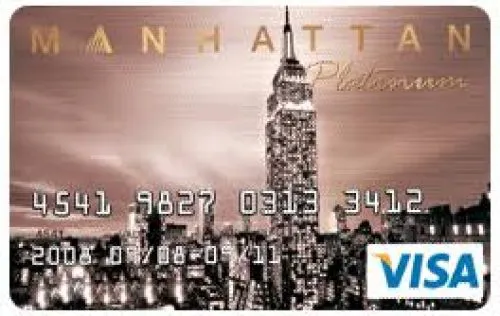
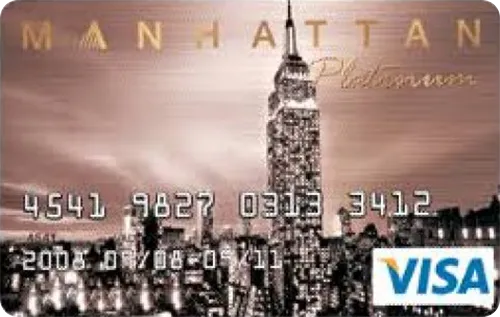
Add SC Manhattan Card ad

diff --git a/_includes/advertisement-post-sc-manhattan.html b/_includes/advertisement-post-sc-manhattan.html
@@ -1,0 +1,61 @@
+<div class="border pl-4 pr-4 pt-3 pb-2 bg-lightblue">
+  <div class="row justify-content-between">
+    <div class="col-md-8 mb-2 mb-md-0">
+      <h5 class="font-weight-bold text-center">
+        Attractive Offer on Standard Chartered Manhattan Credit Card
+      </h5>
+      <div class="row">
+        <ul>
+          <li>5% cashback on supermarkets and departmental stores</li>
+          <li>
+            3x reward points per Rs. 150 spent on other categories
+          </li>
+          <li>15% discount at over 850 restaurants<sup>*</sup></li>
+          <li>
+            Rs. 200 instant discount at Grofers every Thursday<sup>*</sup>
+          </li>
+          <li>25% discount on Movie tickets at Inox on weekends</li>
+          <li>10% discount on food & beverages at Inox on weekends</li>
+          <li>
+            Renewal fee waiver on spending Rs. 1.2 Lakh in a Year<sup>*</sup>
+          </li>
+        </ul>
+      </div>
+    </div>
+    <div class="col-md-4">
+      <div class="row">
+        <div class="text-center justify-content-center col-12">
+          <a target="_blank" href="https://l.cardinfo.in/scmanhattan">
+            <picture>
+              <source
+                data-srcset="{{
+                  site.baseurl
+                }}/assets/images/standard-chartered-manhattan.webp"
+                type="image/webp"
+              />
+              <img
+                class="lazy mx-auto d-block pt-3 pb-3 "
+                data-src="{{
+                  site.baseurl
+                }}/assets/images/standard-chartered-manhattan.png"
+                alt="Apply for Citi Rewards Card"
+              />
+            </picture>
+          </a>
+        </div>
+        <div class="col-12">
+          <a
+            href="https://l.cardinfo.in/scmanhattan"
+            target="_blank"
+            class="btn btn-danger btn-lg btn-block post-element mt-2"
+            rel="noopener"
+            ><i class="ci-pen"></i> Apply Now</a
+          >
+          <div class="mt-2 text-right">
+            <sup>* T&CA, Limited Period Offer</sup>
+          </div>
+        </div>
+      </div>
+    </div>
+  </div>
+</div>

diff --git a/_includes/advertisement-post.html b/_includes/advertisement-post.html
@@ -1,4 +1,5 @@
-{% assign ad_pos = content | number_of_words | modulo: 3 %} {% if ad_pos == 0 %}
+{% assign ad_pos = content | number_of_words | modulo: 4 %} {% if ad_pos == 0 %}
 {% include advertisement-post-icici-platinum.html %} {% endif %} {% if ad_pos ==
 1 %} {% include advertisement-post-citi-rewards.html %} {% endif %} {% if ad_pos
-== 2 %} {% include advertisement-post-citi-indian-oil.html %} {% endif %}
+== 2 %} {% include advertisement-post-citi-indian-oil.html %} {% endif %}{% if
+ad_pos == 3 %} {% include advertisement-post-sc-manhattan.html %} {% endif %}
